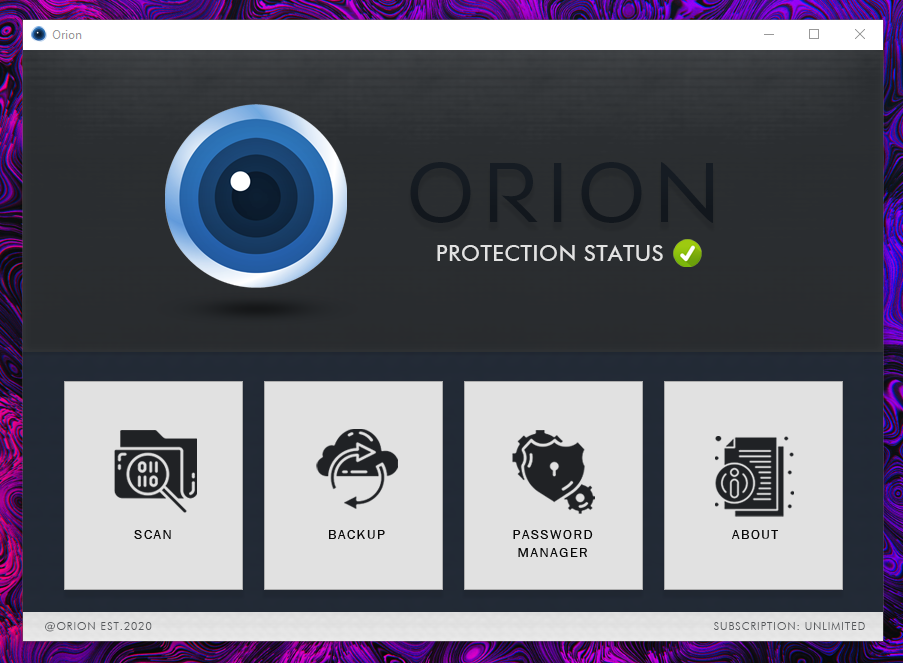
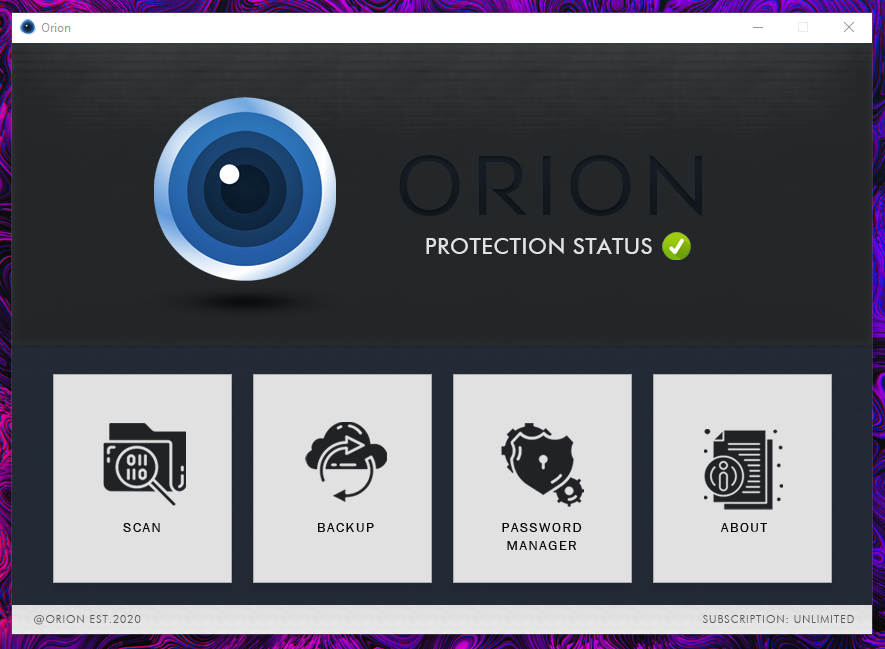
refactored GUI.py/updated readme

diff --git a/src/GUI.py b/src/GUI.py
@@ -6,24 +6,27 @@ from passwordManager import *
 
 class MainGUI(QtWidgets.QWidget):
     
-    def setupUi(self, MainWindow):
-        MainWindow.setObjectName("Orion")
-        MainWindow.resize(860, 591)
-        MainWindow.setWindowTitle("Orion")
-        MainWindow.setWindowIcon(QtGui.QIcon('../assets/Icons/orionIcon.png'))
-        self.centralwidget = QtWidgets.QWidget(MainWindow)
-        self.centralwidget.setObjectName("centralwidget")
+    def __init__(self):
+        # initializes mainWindow
+        super().__init__()
+        self.setupUi()
+
+    def setupUi(self):
+        self.setObjectName("Orion")
+        self.resize(860, 591)
+        self.setWindowFlag(QtCore.Qt.WindowMaximizeButtonHint, False)
+        self.setWindowTitle("Orion")
+        self.setWindowIcon(QtGui.QIcon('../assets/Icons/orionIcon.png'))
         self.createBackground()
         self.createButtons()
         self.setCheckMark()
-
-        MainWindow.setCentralWidget(self.centralwidget)
+        self.show()
 
     def createBackground(self):
-        self.background = QtWidgets.QLabel(self.centralwidget)
+        self.background = QtWidgets.QLabel(self)
         self.background.setGeometry(QtCore.QRect(0, 0, 861, 591))
         self.background.setText("")
-        self.background.setPixmap(QtGui.QPixmap("../assets/background/background4.0.png"))
+        self.background.setPixmap(QtGui.QPixmap("../assets/background/background3.0.png"))
         self.background.setObjectName("background")
 
     def createButtons(self):
@@ -34,7 +37,7 @@ class MainGUI(QtWidgets.QWidget):
 
     def createScanButton(self):
         # resizes button
-        self.scanButton = QtWidgets.QPushButton(self.centralwidget)
+        self.scanButton = QtWidgets.QPushButton(self)
         self.scanButton.setGeometry(QtCore.QRect(40, 330, 181, 211))
         self.scanButton.setText("")
 
@@ -49,12 +52,11 @@ class MainGUI(QtWidgets.QWidget):
         self.scanButton.clicked.connect(self.scanPopup)
 
     def scanPopup(self):
-        self.scanner = ScanWindow(parent=self)
-        self.scanner.show()
+        self.scannerInitiate = ScanWindow(parent=self)
 
     def createBackupButton(self):
         # resizes button
-        self.backupButton = QtWidgets.QPushButton(self.centralwidget)
+        self.backupButton = QtWidgets.QPushButton(self)
         self.backupButton.setGeometry(QtCore.QRect(240, 330, 181, 211))
         self.backupButton.setText("")
 
@@ -67,7 +69,7 @@ class MainGUI(QtWidgets.QWidget):
 
     def createPasswordButton(self):
         # resizes button
-        self.passwordButton = QtWidgets.QPushButton(self.centralwidget)
+        self.passwordButton = QtWidgets.QPushButton(self)
         self.passwordButton.setGeometry(QtCore.QRect(440, 330, 181, 211))
         self.passwordButton.setText("")
 
@@ -82,10 +84,10 @@ class MainGUI(QtWidgets.QWidget):
         self.passwordButton.clicked.connect(self.passwordPopup)
 
     def passwordPopup(self):
-        self.passwordInitate = PasswordManager()
+        self.passwordInitiate = PasswordManager()
 
     def createAboutButton(self):
-        self.aboutButton = QtWidgets.QPushButton(self.centralwidget)
+        self.aboutButton = QtWidgets.QPushButton(self)
         self.aboutButton.setGeometry(QtCore.QRect(640, 330, 181, 211))
         self.aboutButton.setText("")
         
@@ -98,7 +100,7 @@ class MainGUI(QtWidgets.QWidget):
 
     def setCheckMark(self):
         # resizes/changes name
-        self.checkMark = QtWidgets.QLabel(self.centralwidget)
+        self.checkMark = QtWidgets.QLabel(self)
         self.checkMark.setGeometry(QtCore.QRect(640, 180, 51, 51))
         self.checkMark.setText("")
         

diff --git a/src/passwordManager.py b/src/passwordManager.py
@@ -25,6 +25,7 @@ class PasswordManager():
     def introFunction(self):
         # Starts the intro screen asking the user for the password
         self.introWindow = tk.Tk()
+        self.introWindow.resizable(0,0)
         icon = tk.PhotoImage(master = self.introWindow, file = '../assets/Icons/lock2.0.png')
         self.introWindow.iconphoto(False, icon)
         self.introWindow.title("Password Manager")
@@ -55,6 +56,7 @@ class PasswordManager():
                 
     def passwordManagerViewer(self):        
         self.passManWindow = tk.Tk()
+        self.passManWindow.resizable(0,0)
         icon = tk.PhotoImage(master = self.passManWindow, file = '../assets/Icons/lock2.0.png')
         self.passManWindow.iconphoto(False, icon)
         self.passManWindow.title("Password Manager")
@@ -89,6 +91,7 @@ class PasswordManager():
         
         # Setup a new window to gather the new password information
         self.newInfoWindow = tk.Tk()
+        self.newInfoWindow.resizable(0,0)
         icon = tk.PhotoImage(master = self.newInfoWindow, file = '../assets/Icons/lock2.0.png')
         self.newInfoWindow.iconphoto(False, icon)
         self.newInfoWindow.title("Password Manager")
@@ -146,6 +149,7 @@ class PasswordManager():
                 # Pop up a window prompting the user to input their new password
                 # Possible double check on password (for correct syntax)
                 self.newUserWindow = tk.Tk()
+                self.newUserWindow.resizable(0,0)
                 icon = tk.PhotoImage(master = self.newUserWindow, file = '../assets/Icons/lock2.0.png')
                 self.newUserWindow.iconphoto(False, icon)
                 self.newUserWindow.title("Password Manager")

diff --git a/src/scan.py b/src/scan.py
@@ -11,7 +11,7 @@ class ScanWindow(QtWidgets.QWidget):
 
 		# initializes ScanWindow
 		super().__init__()
-		self.initUI()
+		self.setupUI()
 
 		# initializes mutex and condition for pausing threads
 		self.mutex = QtCore.QMutex()
@@ -20,10 +20,11 @@ class ScanWindow(QtWidgets.QWidget):
 		self.resumeBool = False
 		self.scanning = ScanningThread(self.mutex, self.condition, self.userDirectory)
    
-	def initUI(self):
+	def setupUI(self):
 		#sets geometry/title and creates all buttons
 		self.setGeometry(680, 350, 560, 300) 
 		self.setWindowTitle("File Scanner")
+		self.setWindowFlag(QtCore.Qt.WindowMaximizeButtonHint, False)
 		self.setWindowIcon(QtGui.QIcon('../assets/Icons/scanIcon2.0.png'))
 		self.createBackground()
 		self.createProgressBar()
@@ -75,6 +76,7 @@ class ScanWindow(QtWidgets.QWidget):
 		
 		# if cancel is hit or no directory selected
 		if (self.userDirectory == ''): return
+		
 		self.startScan()
 
 	def scanInProgressMessage(self):

diff --git a/src/main.py b/src/main.py
@@ -3,8 +3,5 @@ from GUI import *
 # driver code
 if __name__ == "__main__":
     app = QtWidgets.QApplication(sys.argv)
-    MainWindow = QtWidgets.QMainWindow()
     ui = MainGUI()
-    ui.setupUi(MainWindow)
-    MainWindow.show()
     sys.exit(app.exec_())
